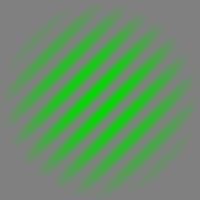
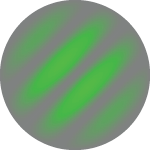
an update to the version four

diff --git a/stimulus/exp01_v4.py b/stimulus/exp01_v4.py
@@ -48,7 +48,7 @@ except:
     # create file name
     date = sfc.get_date()
     time = sfc.get_time()
-    file_name = f"{subID}_{date}_{time}_exp01_v03.json"
+    file_name = f"{subID}_{date}_{time}_exp01_v04.json"
     # create a dictionary of variables to be saved
     trial_dict = {'last_block_num': [iblock],
                   'file_name': [file_name]}
@@ -170,9 +170,9 @@ for itrial in range(N_TRIALS):
 
     # --------------------------------
     # set image properties and load
-    image1_directory = os.path.join("image", "image_set_v03",
+    image1_directory = os.path.join("image", "image_set_v04",
                                     f"red{ired}_tilt0.png")
-    image2_directory = os.path.join("image", "image_set_v03",
+    image2_directory = os.path.join("image", "image_set_v04",
                                     f"green{igreen}_tilt0.png")
 
     # load image
@@ -316,13 +316,13 @@ for itrial in range(N_TRIALS):
     print(f"TiltAng: {(tilt_mag / 10):3.1f}deg   ", end="")
 
     # load the changed image
-    image3_directory1cw = os.path.join("image", "image_set_v03",
+    image3_directory1cw = os.path.join("image", "image_set_v04",
                                        f"red{ired}_tilt0.png")
-    image3_directory1ccw = os.path.join("image", "image_set_v03",
+    image3_directory1ccw = os.path.join("image", "image_set_v04",
                                         f"red{ired}_tilt0.png")
-    image3_directory2cw = os.path.join("image", "image_set_v03",
+    image3_directory2cw = os.path.join("image", "image_set_v04",
                                        f"green{igreen}_tilt0.png")
-    image3_directory2ccw = os.path.join("image", "image_set_v03",
+    image3_directory2ccw = os.path.join("image", "image_set_v04",
                                         f"green{igreen}_tilt0.png")
 
     rel_image3_1cw = visual.ImageStim(win,

diff --git a/stimulus/gen_tilted_images_v04.py b/stimulus/gen_tilted_images_v04.py
@@ -1,0 +1,54 @@
+"""
+The aim here is to create several versions of an input image with different
+orientations
+
+Here I generate set one images (stereotypical images)
+
+Mo Shams <MShamsCBR@gmail.com>
+last modification: 2023-01-10
+"""
+
+import os
+import numpy as np
+from PIL import Image
+
+# set the save image path
+save_path = os.path.join("image", "image_set_v04")
+
+# face or house categories
+cats = ['red', 'green']
+# examples
+exms = [1]
+
+for cat in cats:
+    for exm in exms:
+        # set the source image path
+        source_path = os.path.join("image", "source", "source_v04",
+                                   f"{cat}{exm}.png")
+        # read the image
+        im = Image.open(source_path)
+        # define the span of tilts (degrees)
+        min_tilt = 0
+        max_tilt = 5
+        step_tilt = 0.1
+        mags = np.arange(min_tilt, max_tilt, step_tilt)
+        for imag, mag in enumerate(mags):
+            im_output = im.rotate(mag)
+            if imag == 0:
+                im_output.save(os.path.join(save_path,
+                                            f'{cat}{exm}_tilt{imag}.png'))
+            else:
+                im_output.save(os.path.join(save_path,
+                                            f'{cat}{exm}_tilt{imag}_CCW.png'))
+        min_tilt = 0
+        max_tilt = -5
+        step_tilt = -0.1
+        mags = np.arange(min_tilt, max_tilt, step_tilt)
+        for imag, mag in enumerate(mags):
+            im_output = im.rotate(mag)
+            if imag == 0:
+                im_output.save(os.path.join(save_path, f'{cat}{exm}_tilt'
+                                                       f'{imag}.png'))
+            else:
+                im_output.save(os.path.join(save_path, f'{cat}{exm}_tilt'
+                                                       f'{imag}_CW.png'))
